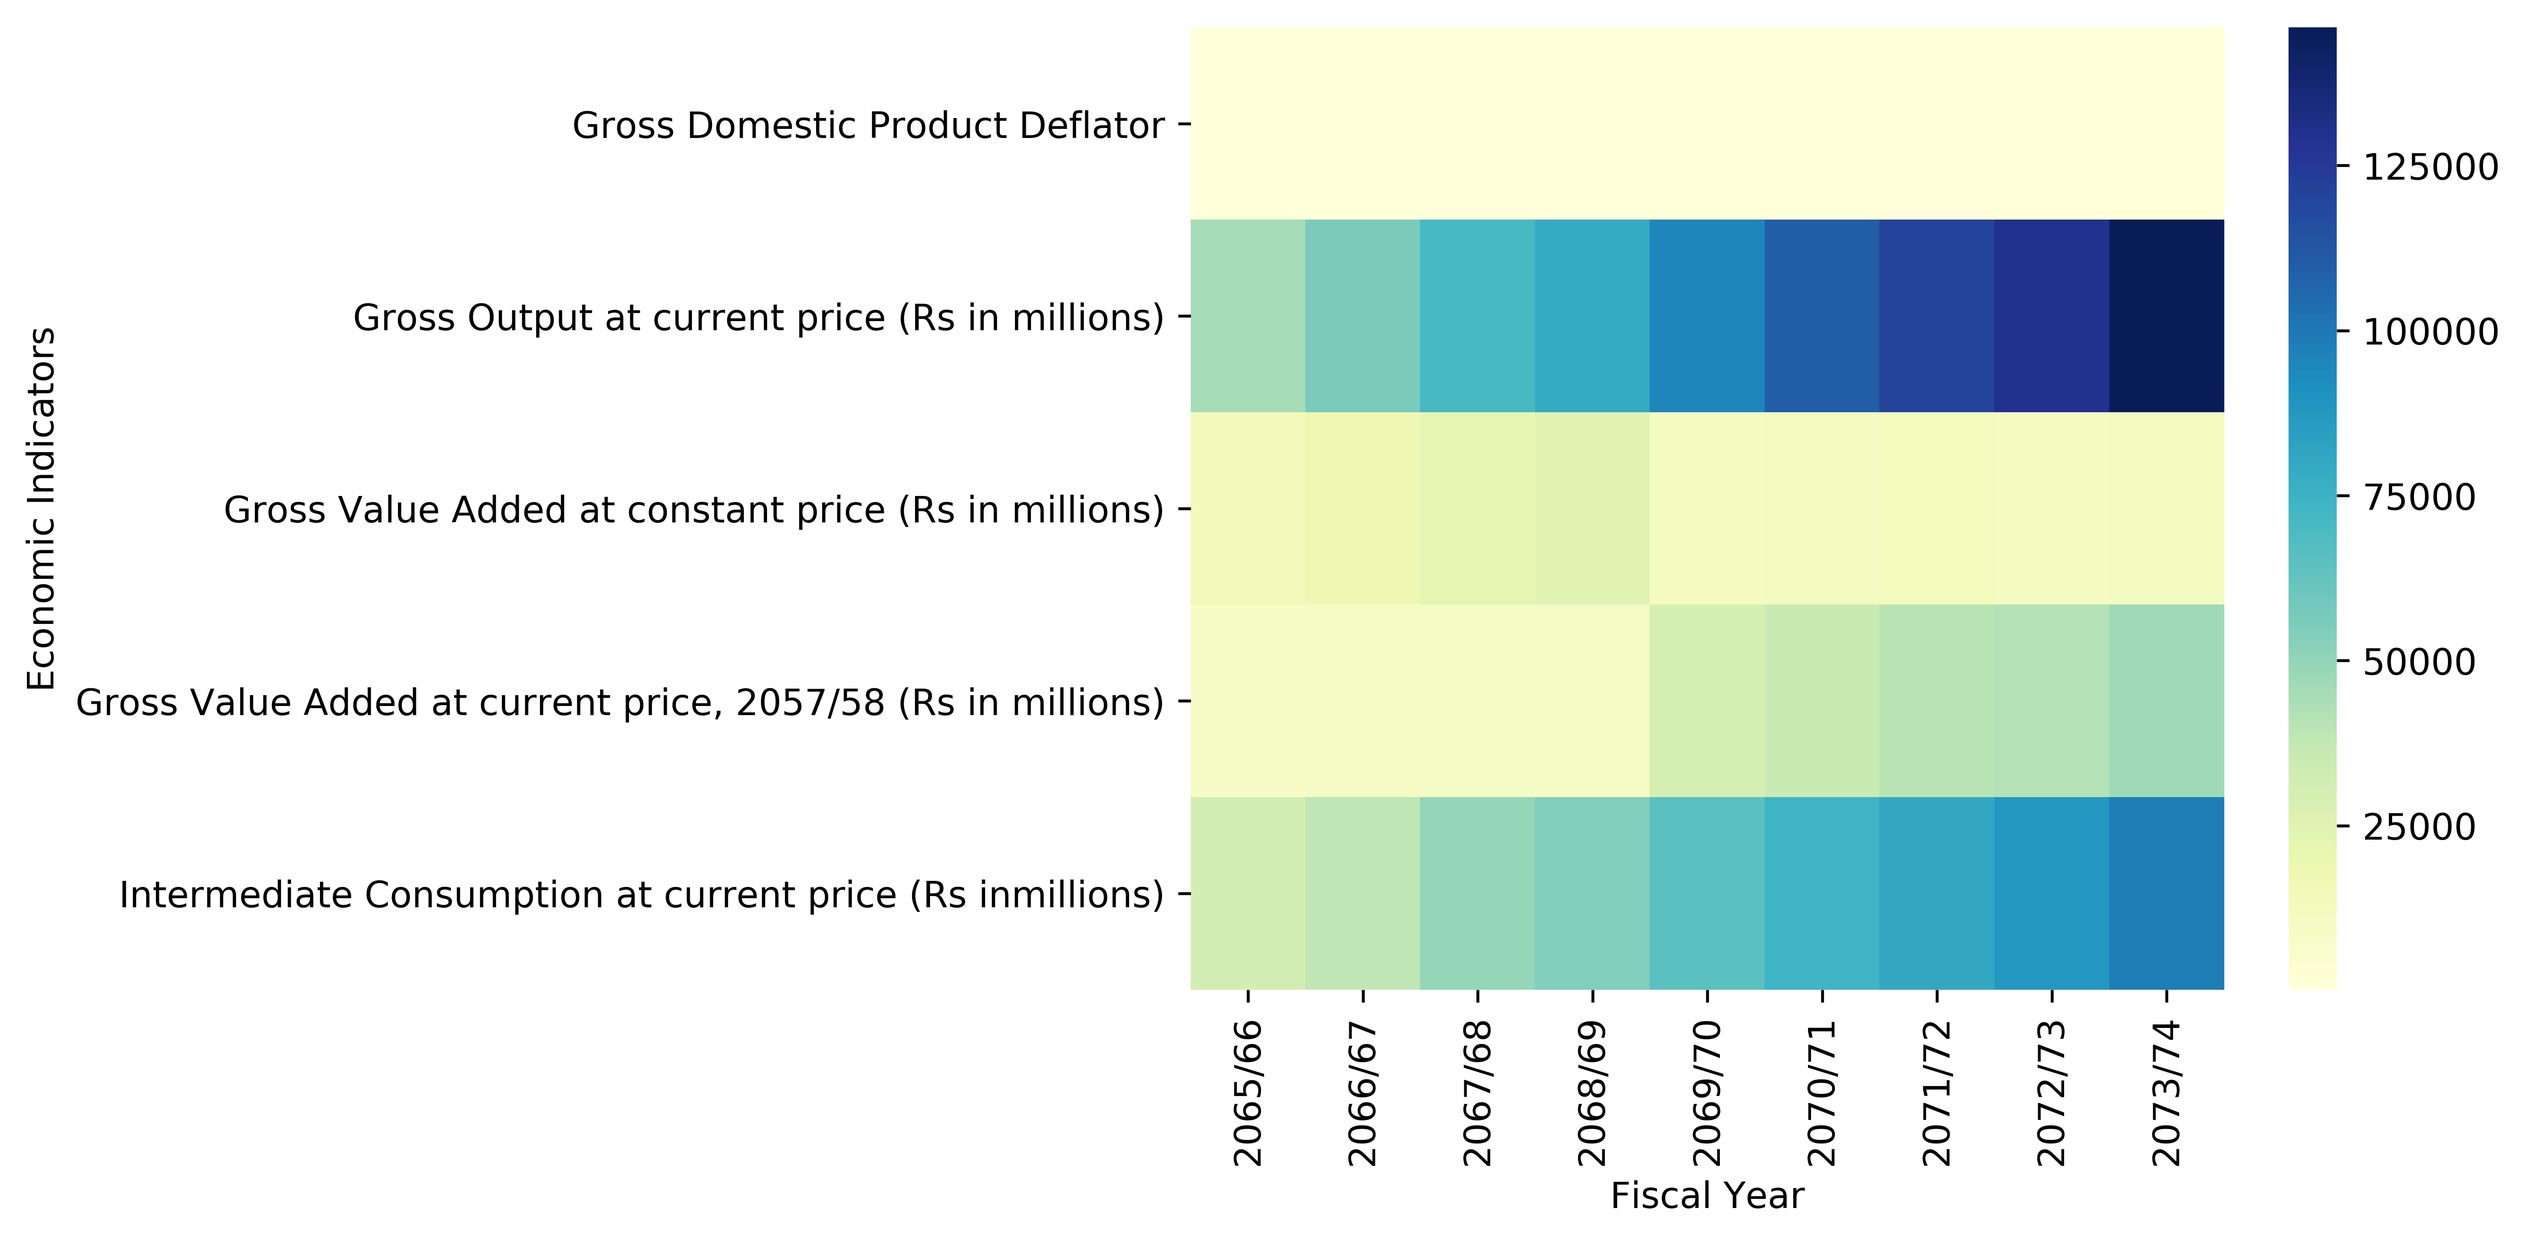
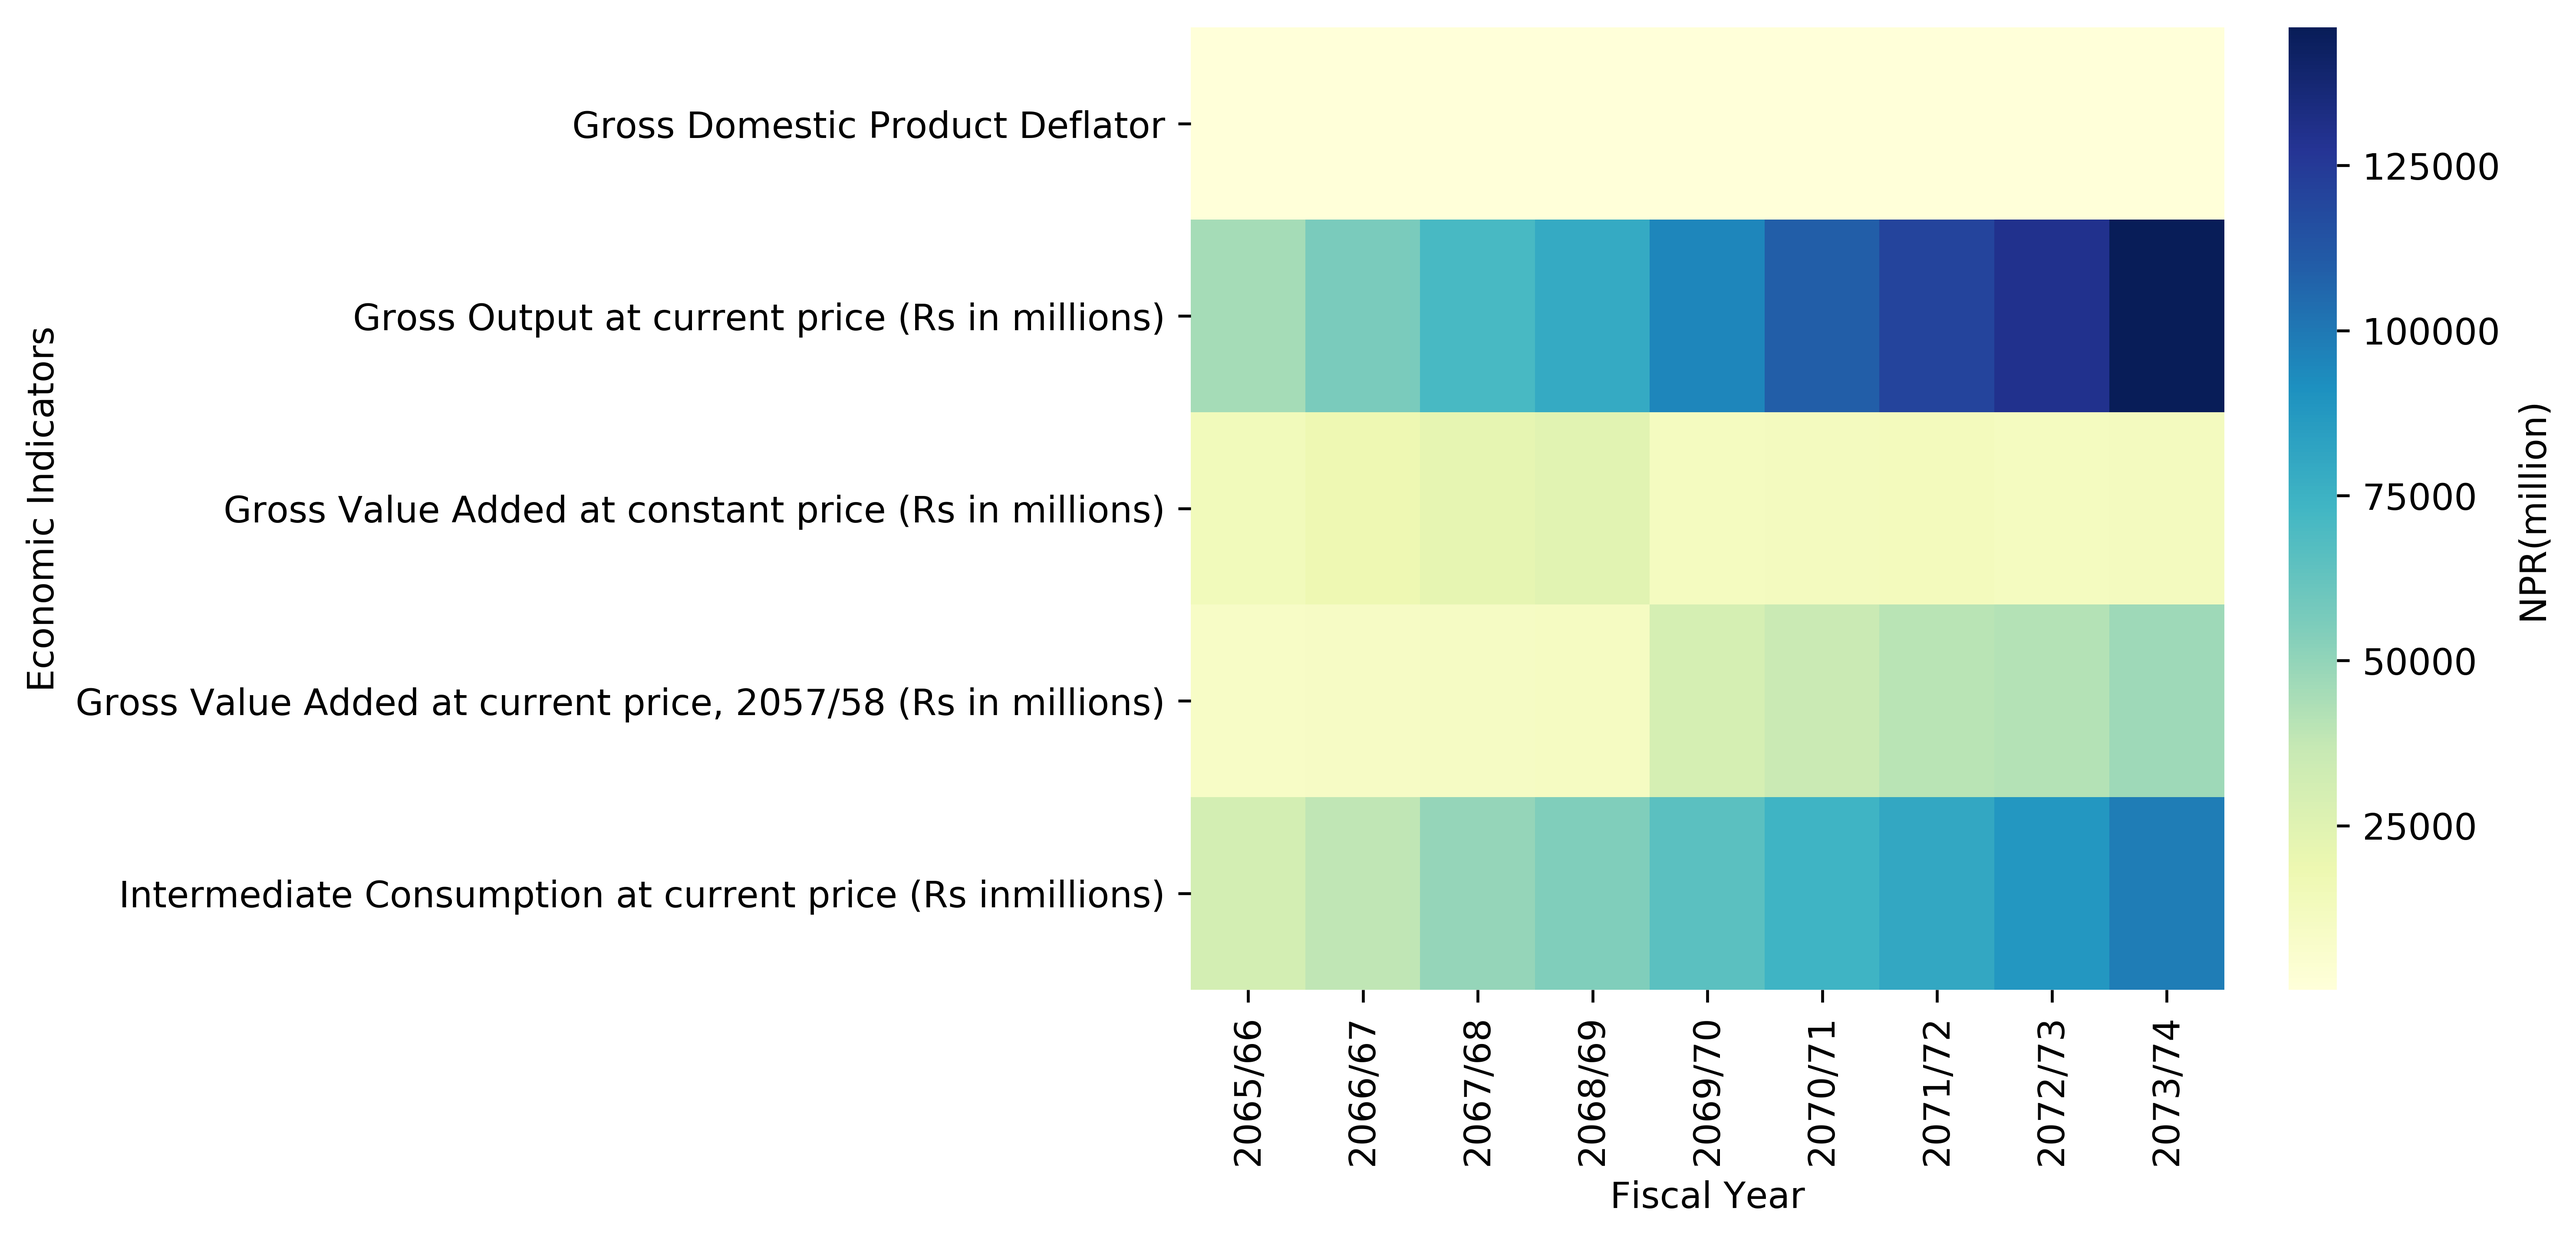
Final agm sir checked satisfied one

diff --git a/PredictionEngine/templates/PredictionEngine/predicts.html b/PredictionEngine/templates/PredictionEngine/predicts.html
@@ -16,6 +16,7 @@ body{
   margin: -20px 0px 0px 0px;
   padding:0px 10px 0px 20px;
   display:inline-block;
+  width:50%;
 }
 input[type='text']{
   height:30px;
@@ -46,6 +47,7 @@ input[type='checkbox']{
 #indextable{
   margin-right:20px;
   box-shadow:0px 0px 5px #000000; 
+  width:75%;
   
 }
 .access{
@@ -145,7 +147,6 @@ RECORDS:<br>
 <br>
 {{message}}
 </tr></td>
-
 </table>
 </div >
 <div class="predictionindex">

diff --git a/AnalysisEngine/templates/AnalysisEngine/analysis_detail.html b/AnalysisEngine/templates/AnalysisEngine/analysis_detail.html
@@ -50,8 +50,8 @@
 
 {% if all_details.id == 4 %}
 
-<img src="{% static 'img/id4.png'%}" width=700 height=auto />
-<img src="{% static 'img/id44.png'%}" width=700 height=auto />
+<img src="{% static 'img/id4.png'%}" width=75% height=auto />
+<img src="{% static 'img/id44.png'%}" width=75% height=auto />
 
 {% endif %}
 {% if all_details.id == 5 %}

diff --git a/manage.py b/manage.py
@@ -330,14 +330,22 @@ def main():
         data=pd.read_csv("assets/Economic_indicators_of_hotels.csv",header=0)       
         df1=data[['Economic Indicators','Fiscal Year','val']]
         heatmap1_data = pd.pivot_table(df1, values='val',index=['Economic Indicators'],columns='Fiscal Year')
-        sns_plot=sns.heatmap(heatmap1_data, cmap="YlGnBu")
+        # sns_plot=sns.heatmap(heatmap1_data, cmap="YlGnBu")
+        sns_plot=sns.heatmap(heatmap1_data, cmap="YlGnBu",cbar_kws={'label': 'NPR(million)'})
         mpl.pyplot.savefig('AnalysisEngine/static/img/id3.png', dpi=600,bbox_inches='tight')
         mpl.pyplot.clf()
 
         #tourist_arrivals_purpose_newlook
+        # data=pd.read_csv("assets/tourist_arrivals_purpose_newlook.csv",header=0 )
+        # data.pivot(index='year', columns='purposes', values='Arrivals').plot(kind='bar')
+        # mpl.pyplot.savefig('AnalysisEngine/static/img/id4.png')
+        # mpl.pyplot.clf()
         data=pd.read_csv("assets/tourist_arrivals_purpose_newlook.csv",header=0 )
-        data.pivot(index='year', columns='purposes', values='Arrivals').plot(kind='bar')
-        mpl.pyplot.savefig('AnalysisEngine/static/img/id4.png')
+        f = plt.figure()
+        data.pivot(index='year', columns='purposes', values='Arrivals').plot(kind='bar',ax=f.gca(),legend=False)
+        plt.legend(loc='center left', bbox_to_anchor=(1.0, 0.5))
+        f.subplots_adjust(right=0.6)
+        mpl.pyplot.savefig('AnalysisEngine/static/img/id4.png') 
         mpl.pyplot.clf()
 
         mpl.pyplot.axhline(0, color='k')
@@ -357,7 +365,8 @@ def main():
         data=pd.read_csv("assets/No_tourist_industries_guides.csv")
         df1=data[['Industries/guides','year','numbers']]
         heatmap1_data = pd.pivot_table(df1, values='numbers',index=['Industries/guides'],columns='year')
-        sns.heatmap(heatmap1_data, cmap="YlGnBu")
+        # sns.heatmap(heatmap1_data, cmap="YlGnBu")
+        sns_plot=sns.heatmap(heatmap1_data, cmap="YlGnBu",cbar_kws={'label': 'Numbers'})
         mpl.pyplot.savefig('AnalysisEngine/static/img/id5.png', dpi=600,bbox_inches='tight')
         mpl.pyplot.clf()
 
@@ -375,20 +384,8 @@ def main():
 
         map_df = gpd.read_file(fp)
         
-
-        
-
-
         # fig, ax = map_df.plot(figsize = (15, 12), color = "whitesmoke", edgecolor = "lightgrey", linewidth = 0.5)
         # texts = []
-
-
-
-
-
-
-
-
 
         #joining file
 
